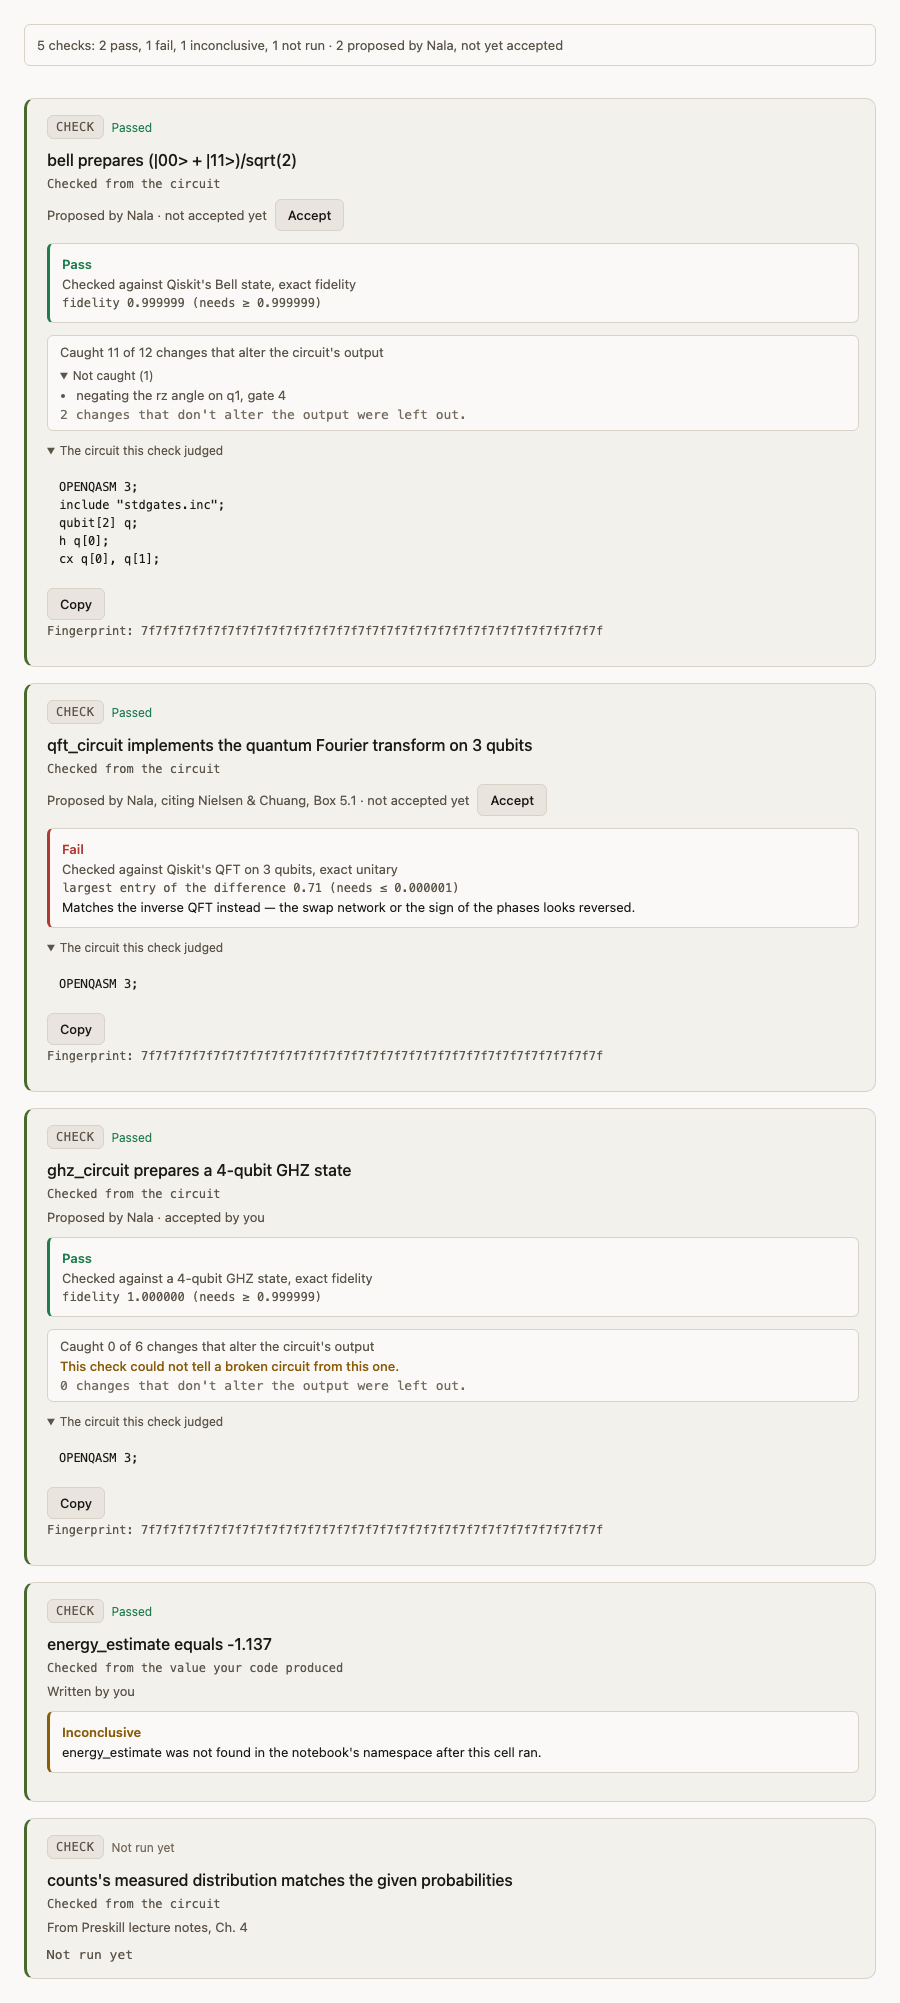
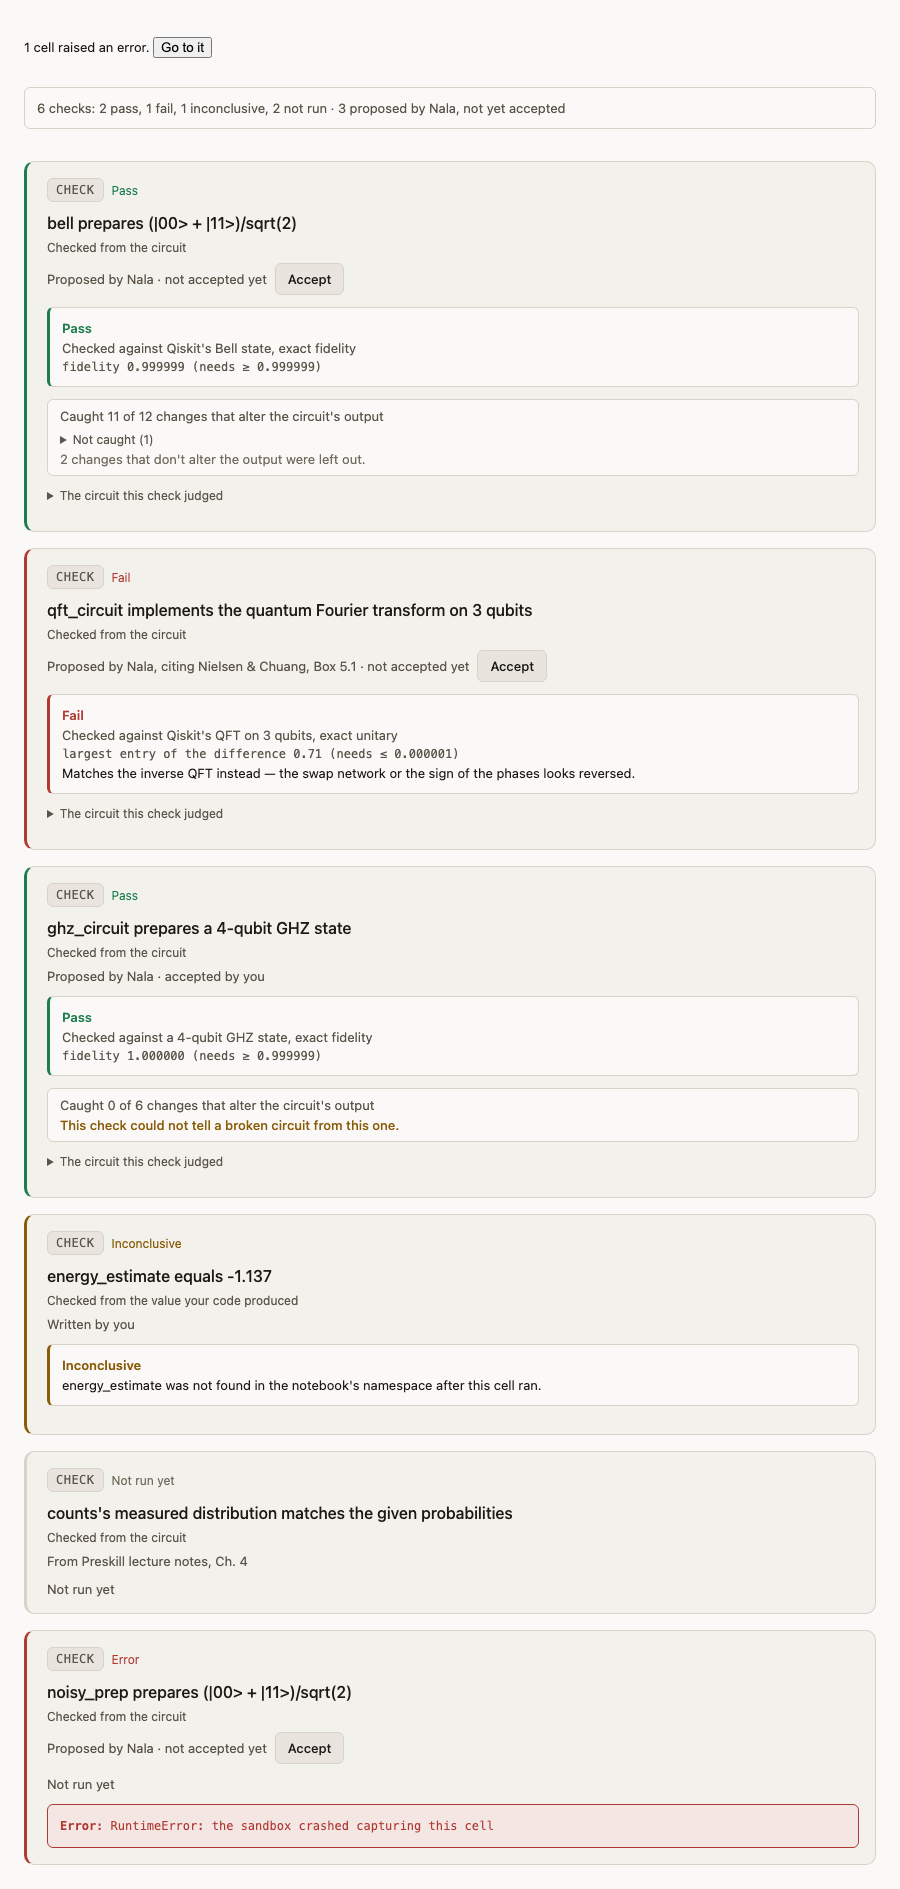
fix: the check card's pill, its fonts, and its disclosures (review pass)
- The cell-head pill showed `cell.status` ("Passed" whenever the worker's capture ran
  cleanly) instead of the verdict — a check that captured fine and then failed still
  read "Passed". `checkCellPillStatus` (notebook-checks.ts) now picks the verdict's own
  status for a check cell, falling back to "not run yet" with no verdict and to "Error"
  only when the capture itself crashed (`cell.status === "error"`), which still has no
  verdict to prefer over it. The card's left border now matches the same status. Colour
  is never the only signal: the pill's own text carries the word every time.
- Monospace was scoped to the measure line, the QASM block and the fingerprint's own
  hash only — the basis label, the teeth lines, "Not run yet" and "Default for this
  kind" were wrongly picking it up from a shared `.mj-mono-muted` utility class and read
  as broken mixed-font prose.
- "N changes that don't alter the output were left out" is now hidden when N is 0.
- The two disclosures were never open by default in the component (neither `<details>`
  carries an `open` prop) — the first round's screenshots opened them with a
  screenshot-only script for visibility. This round's screenshots are closed by
  default, matching the real page, plus one separately-labelled
  `check-cards-en-light-disclosures-open.png` for documentation.

Tests: `checkCellPillStatus` covered directly in `notebook-checks.test.ts` (3 cases:
[…]

Changed region(s): [[0.0, 0.0, 0.6844, 0.9995], [0.3733, 0.0, 0.6222, 0.0625], [0.4044, 0.1874, 0.4356, 0.2186]]

diff --git a/apps/web/tests/forms/notebook-check-cards.test.tsx b/apps/web/tests/forms/notebook-check-cards.test.tsx
@@ -95,13 +95,76 @@ function renderCheck(
   return render(<NotebookView cells={cells} locale="en" framework="qiskit" {...extra} />);
 }
 
+/** The cell-head pill's own text — scoped to that one element, since the verdict chip
+ * inside the card can carry the same word ("Pass"/"Fail"/"Inconclusive"), and a plain
+ * `getByText` would throw on the ambiguity rather than tell them apart. */
+function pillText(view: ReturnType<typeof render>): string {
+  const pill = view.container.querySelector(".mj-notebook-cell-pill");
+  assert.ok(pill, "no cell-head pill on screen");
+  return pill!.textContent ?? "";
+}
+
 // -------------------------------------------------------------------------- verdict states
 
 test("a not-yet-run check says so, and shows no verdict chip", () => {
   const view = renderCheck(baseProperty(), null);
-  assert.ok(view.getByText("Not run yet"));
+  assert.equal(pillText(view), "Not run yet");
+  assert.ok(view.getAllByText("Not run yet").length >= 2); // the pill AND the card body
   assert.equal(view.queryByText("Pass"), null);
   assert.equal(view.queryByText("Fail"), null);
+});
+
+// The bug this guards: the pill is `NotebookCellCard`'s generic head pill, which for
+// every other cell just reflects `cell.status` (ok/error/skipped/not_run). For a check
+// cell, `status: "ok"` only means the worker's capture ran — the verdict can still be a
+// fail, and a pill reading "Passed" over a failing verdict box is actively misleading.
+test("a check cell with status ok and verdict fail renders \"Fail\" in the pill — never \"Passed\"", () => {
+  const view = renderCheck(
+    baseProperty(),
+    { status: "fail", basis: "circuit", checked_against: "a reference", measure: "off by a lot", detail: "wrong phase", qubits: 1, subject_fingerprint: null, subject_qasm: null, teeth: null },
+  );
+  assert.equal(pillText(view), "Fail");
+  assert.equal(view.queryByText("Passed"), null);
+});
+
+test("a check cell with status ok and an inconclusive verdict renders \"Inconclusive\" in the pill — never \"Passed\"", () => {
+  const view = renderCheck(
+    baseProperty(),
+    { status: "inconclusive", basis: "circuit", checked_against: "", measure: "", detail: "could not judge it", qubits: null, subject_fingerprint: null, subject_qasm: null, teeth: null },
+  );
+  assert.equal(pillText(view), "Inconclusive");
+  assert.equal(view.queryByText("Passed"), null);
+});
+
+// The capture itself crashing is a different failure from a judged check that failed —
+// the pill keeps showing Error, not a verdict there is none of.
+test("a check cell whose capture crashed (status error) shows Error, not a verdict word", () => {
+  const cells = notebookCellViews([checkCell("c01", baseProperty())], {
+    notebook_slug: "s",
+    ok: false,
+    runner: "sandbox",
+    duration_ms: 0,
+    environment: {},
+    dropped_bytes: 0,
+    note: "",
+    cells: [
+      {
+        id: "c01",
+        status: "error",
+        stdout: "",
+        stderr: "",
+        outputs: [],
+        error: { ename: "RuntimeError", evalue: "sandbox crashed", traceback: [] },
+        duration_ms: 1,
+        execution_count: 1,
+        note: "",
+        check: null,
+      },
+    ],
+  });
+  const view = render(<NotebookView cells={cells} locale="en" framework="qiskit" />);
+  assert.equal(pillText(view), "Error");
+  assert.equal(view.queryByText("Passed"), null);
 });
 
 test("a passing check with teeth measured shows the chip, the caught line, and the survivor disclosure", () => {
@@ -117,7 +180,8 @@ test("a passing check with teeth measured shows the chip, the caught line, and t
     baseProperty(),
     { status: "pass", basis: "circuit", checked_against: "Qiskit's Bell state, exact fidelity", measure: "fidelity 0.999999 (needs ≥ 0.999999)", detail: "", qubits: 2, subject_fingerprint: FINGERPRINT, subject_qasm: "OPENQASM 3;\nqubit[2] q;\nh q[0];\ncx q[0], q[1];\n", teeth },
   );
-  assert.ok(view.getByText("Pass"));
+  assert.equal(pillText(view), "Pass");
+  assert.ok(view.getAllByText("Pass").length >= 2); // the pill AND the verdict chip
   assert.ok(view.getByText("Checked against Qiskit's Bell state, exact fidelity"));
   assert.match(view.getByText(/fidelity 0.999999/).textContent ?? "", /needs/);
   assert.ok(view.getByText("Caught 11 of 12 changes that alter the circuit's output"));
@@ -166,7 +230,8 @@ test("a failing check shows the diagnosis prominently; teeth are not shown at al
       teeth,
     },
   );
-  assert.ok(view.getByText("Fail"));
+  assert.equal(pillText(view), "Fail");
+  assert.ok(view.getAllByText("Fail").length >= 2); // the pill AND the verdict chip
   assert.ok(view.getByText(/qubit order reversed/));
   // DESIGN.md §1.5: teeth are only ever reported for a check that PASSED this run.
   assert.equal(view.queryByText(/Caught \d+ of/), null);
@@ -188,7 +253,8 @@ test("an inconclusive check shows why, never counted as a fail", () => {
       teeth: null,
     },
   );
-  assert.ok(view.getByText("Inconclusive"));
+  assert.equal(pillText(view), "Inconclusive");
+  assert.ok(view.getAllByText("Inconclusive").length >= 2); // the pill AND the verdict chip
   assert.ok(view.getByText(/mid-circuit measurement/));
   assert.equal(view.queryByText("Fail"), null);
 });

diff --git a/packages/ts/ui/styles.css b/packages/ts/ui/styles.css
@@ -15027,6 +15027,26 @@ html:not([data-auth="in"]) .mj-auth-slot[data-auth-slot="in"] {
   border-left-color: var(--accent);
   border-color: var(--accent);
 }
+/* A check cell's card echoes its own VERDICT in the left border, not the generic
+   accent every other code cell gets — "ok" only means the worker's capture ran, and a
+   card left green over a failing verdict box would repeat the same bug the head pill
+   had. Colour is never the only signal here: the pill right below always carries the
+   matching word ("Pass"/"Fail"/"Inconclusive"/"Not run yet"/"Error"). */
+.mj-notebook-check-cell[data-status="pass"] {
+  border-left-color: var(--ok);
+}
+.mj-notebook-check-cell[data-status="fail"] {
+  border-left-color: var(--err);
+}
+.mj-notebook-check-cell[data-status="inconclusive"] {
+  border-left-color: var(--warn);
+}
+.mj-notebook-check-cell[data-status="not_run"] {
+  border-left-color: var(--border-0);
+}
+.mj-notebook-check-cell[data-status="error"] {
+  border-left-color: var(--err);
+}
 .mj-notebook-cell-edit-actions {
   display: flex;
   flex-wrap: wrap;
@@ -15070,6 +15090,18 @@ html:not([data-auth="in"]) .mj-auth-slot[data-auth-slot="in"] {
 .mj-notebook-cell-pill[data-status="skipped"],
 .mj-notebook-cell-pill[data-status="not_run"] {
   color: var(--text-2);
+}
+/* A check cell's pill (ai-ops 382 fix): the verdict's own status values, reused
+   straight off `CheckVerdict.status` rather than invented pill-only names, so this
+   agrees by construction with `.mj-notebook-check-chip` further down the same card. */
+.mj-notebook-cell-pill[data-status="pass"] {
+  color: var(--ok);
+}
+.mj-notebook-cell-pill[data-status="fail"] {
+  color: var(--err);
+}
+.mj-notebook-cell-pill[data-status="inconclusive"] {
+  color: var(--warn);
 }
 .mj-notebook-cell-actions {
   margin-left: auto;
@@ -15353,6 +15385,7 @@ html:not([data-auth="in"]) .mj-auth-slot[data-auth-slot="in"] {
 }
 .mj-notebook-check-basis {
   margin: 0;
+  color: var(--text-1);
   font-size: var(--fs-12);
 }
 .mj-notebook-check-author {
@@ -15416,13 +15449,19 @@ html:not([data-auth="in"]) .mj-auth-slot[data-auth-slot="in"] {
 }
 .mj-notebook-check-not-run {
   margin: var(--sp-1) 0 0;
+  color: var(--text-1);
   font-size: var(--fs-13);
 }
+/* Also the not-measured teeth paragraph's own shell (`NotebookCheckTeeth` returns just
+   this `<p>` in that branch, no wrapping `<div>`), so it needs the muted colour a plain
+   selector on `<p>` would not reach once the "measured" branch's own `<p>`s (below) have
+   their own rules. */
 .mj-notebook-check-teeth {
   display: grid;
   gap: var(--sp-1);
   margin-top: var(--sp-1);
   padding: var(--sp-2) var(--sp-3);
+  color: var(--text-1);
   border: 1px solid var(--border-0);
   border-radius: var(--radius-control);
   background: var(--bg-0);
@@ -15461,6 +15500,7 @@ html:not([data-auth="in"]) .mj-auth-slot[data-auth-slot="in"] {
 }
 .mj-notebook-check-fingerprint {
   margin: var(--sp-1) 0 0;
+  color: var(--text-1);
   font-size: var(--fs-12);
   word-break: break-all;
 }
@@ -15540,6 +15580,7 @@ html:not([data-auth="in"]) .mj-auth-slot[data-auth-slot="in"] {
   outline-offset: 2px;
 }
 .mj-notebook-add-check-hint {
+  color: var(--text-1);
   font-size: var(--fs-12);
 }
 .mj-notebook-add-check-table {

diff --git a/apps/web/components/notebook-view.tsx b/apps/web/components/notebook-view.tsx
@@ -11,7 +11,7 @@ import { NotebookAddCheckForm } from "./notebook-add-check-form";
 import { cellDomId } from "../lib/notebook-ide";
 import { lintMessage, lintNotebook, type LintFinding } from "../lib/notebook-lint";
 import { NotebookHardwareRequests, type NotebookHardwareContext } from "./notebook-hardware-card";
-import { checkSummaryCounts, type CheckProperty } from "../lib/notebook-checks";
+import { checkCellPillStatus, checkSummaryCounts, type CheckProperty } from "../lib/notebook-checks";
 import type { NotebookCellStatus, NotebookCellView } from "../lib/notebook-view";
 import type { PublicLocale } from "../lib/public-locale";
 import { NOTEBOOK_CHECK_COPY, WORKSPACE_COPY } from "../lib/workspace-locale";
@@ -419,6 +419,24 @@ function NotebookCellCard({
   const showExplainError = cell.error !== null;
   const showCheckAttempt = cell.role !== null && CHECKABLE_ROLES.has(cell.role);
   const isCheckCell = cell.role === "check" && cell.checkProperty !== null;
+  // A check cell's head pill shows the VERDICT (pass/fail/inconclusive/not run yet),
+  // never the generic capture status a plain code cell's pill shows — "ok" only means
+  // the worker's capture function ran, and a check that captured cleanly then judged
+  // its subject a FAIL must never read "Passed" (the bug this fixes). `error` still
+  // wins: that means the sandbox itself crashed before capturing anything. Kept as its
+  // own nullable value (not folded into one ternary with `pillLabel`) so its type stays
+  // `CheckCellPillStatus`, not the union with `NotebookCellStatus` a single combined
+  // ternary would widen it to — TS cannot otherwise prove `checkCopy.statusChip` is
+  // indexed with one of its three keys rather than "ok"/"skipped" too.
+  const checkPillStatus = isCheckCell ? checkCellPillStatus(cell) : null;
+  const pillStatus = checkPillStatus ?? cell.status;
+  const pillLabel = checkPillStatus
+    ? checkPillStatus === "error"
+      ? copy.cellStatus.error
+      : checkPillStatus === "not_run"
+        ? checkCopy.notRunYet
+        : checkCopy.statusChip[checkPillStatus]
+    : copy.cellStatus[cell.status];
 
   function submitAttempt() {
     if (!onCellAction || !attemptText.trim() || locked) return;
@@ -429,14 +447,14 @@ function NotebookCellCard({
   return (
     <article
       id={cellDomId(cell.id)}
-      className="mj-notebook-cell"
+      className={isCheckCell ? "mj-notebook-cell mj-notebook-check-cell" : "mj-notebook-cell"}
       data-kind={cell.kind}
-      data-status={cell.status}
+      data-status={pillStatus}
       tabIndex={0}
     >
       <div className="mj-notebook-cell-head">
         {cell.role ? <span className="mj-notebook-cell-role">{cell.role}</span> : null}
-        <span className="mj-notebook-cell-pill" data-status={cell.status}>{copy.cellStatus[cell.status]}</span>
+        <span className="mj-notebook-cell-pill" data-status={pillStatus}>{pillLabel}</span>
         {onCellAction ? (
           <div className="mj-notebook-cell-actions mj-library-row-actions">
             <button type="button" disabled={busy} onClick={() => onCellAction(cell.id, "explain")}>{copy.actionExplain}</button>

diff --git a/apps/web/components/notebook-check-card.tsx b/apps/web/components/notebook-check-card.tsx
@@ -48,7 +48,7 @@ export function NotebookCheckCard({
   return (
     <div className="mj-notebook-check">
       <p className="mj-notebook-check-statement">{property.statement || cell.source}</p>
-      <p className="mj-notebook-check-basis mj-mono-muted">{copy.basisLabel[basis]}</p>
+      <p className="mj-notebook-check-basis">{copy.basisLabel[basis]}</p>
 
       <div className="mj-notebook-check-author">
         <span className="mj-notebook-check-author-text">
@@ -85,7 +85,7 @@ export function NotebookCheckCard({
           ) : null}
         </div>
       ) : (
-        <p className="mj-notebook-check-not-run mj-mono-muted">{copy.notRunYet}</p>
+        <p className="mj-notebook-check-not-run">{copy.notRunYet}</p>
       )}
 
       {/* Teeth only when the verdict IS a pass — a fail or inconclusive check was never
@@ -98,8 +98,8 @@ export function NotebookCheckCard({
           <summary>{copy.qasmDisclosureLabel}</summary>
           {verdict.subject_qasm ? <NotebookCheckQasm qasm={verdict.subject_qasm} copy={copy} /> : null}
           {verdict.subject_fingerprint ? (
-            <p className="mj-notebook-check-fingerprint mj-mono-muted">
-              {copy.fingerprintLabel}: <code>{verdict.subject_fingerprint}</code>
+            <p className="mj-notebook-check-fingerprint">
+              {copy.fingerprintLabel}: <code className="mj-mono-muted">{verdict.subject_fingerprint}</code>
             </p>
           ) : null}
         </details>
@@ -135,7 +135,7 @@ function NotebookCheckQasm({ qasm, copy }: { qasm: string; copy: NotebookCheckCo
 function NotebookCheckTeeth({ teeth, copy }: { teeth: CheckTeeth; copy: NotebookCheckCopy }) {
   if (teeth.status === "not_measured") {
     return (
-      <p className="mj-notebook-check-teeth mj-mono-muted" title={copy.teethTooltip}>
+      <p className="mj-notebook-check-teeth" title={copy.teethTooltip}>
         {copy.teethNotMeasured(teeth.reason)}
       </p>
     );
@@ -162,7 +162,9 @@ function NotebookCheckTeeth({ teeth, copy }: { teeth: CheckTeeth; copy: Notebook
           </ul>
         </details>
       ) : null}
-      <p className="mj-notebook-check-teeth-equivalent mj-mono-muted">{copy.teethEquivalentLeftOut(teeth.equivalent)}</p>
+      {teeth.equivalent > 0 ? (
+        <p className="mj-notebook-check-teeth-equivalent">{copy.teethEquivalentLeftOut(teeth.equivalent)}</p>
+      ) : null}
     </div>
   );
 }

diff --git a/apps/web/lib/notebook-checks.test.ts b/apps/web/lib/notebook-checks.test.ts
@@ -7,6 +7,7 @@ import {
   buildCheckProperty,
   buildReferenceString,
   checkAuthorBadge,
+  checkCellPillStatus,
   checkCellSource,
   checkExpectationMode,
   checkExpressionError,
@@ -306,6 +307,26 @@ test("checkAuthorBadge classifies the three authors, citation carried through fo
     kind: "source",
     citation: "arXiv:1234.5678",
   });
+});
+
+// -------------------------------------------------------------- the cell-head pill
+
+test("checkCellPillStatus prefers the verdict over the generic capture status", () => {
+  assert.equal(checkCellPillStatus({ status: "ok", checkVerdict: { status: "fail" } as never }), "fail");
+  assert.equal(checkCellPillStatus({ status: "ok", checkVerdict: { status: "inconclusive" } as never }), "inconclusive");
+  assert.equal(checkCellPillStatus({ status: "ok", checkVerdict: { status: "pass" } as never }), "pass");
+});
+
+test("checkCellPillStatus is not_run when the capture ran but no verdict exists yet", () => {
+  assert.equal(checkCellPillStatus({ status: "ok", checkVerdict: null }), "not_run");
+});
+
+test("checkCellPillStatus is error when the capture itself crashed, even with a stale verdict", () => {
+  // A crashed capture never carries a verdict in practice (the join sets checkVerdict
+  // from THIS run's result), but error wins even if one were somehow present — the
+  // sandbox crashing is a different failure from a judged check that failed.
+  assert.equal(checkCellPillStatus({ status: "error", checkVerdict: null }), "error");
+  assert.equal(checkCellPillStatus({ status: "error", checkVerdict: { status: "pass" } as never }), "error");
 });
 
 // -------------------------------------------------------------- notebook-level summary

diff --git a/apps/web/lib/notebook-checks.ts b/apps/web/lib/notebook-checks.ts
@@ -561,6 +561,26 @@ export function checkAuthorBadge(property: Pick<CheckProperty, "author" | "citat
   return { kind: "user" };
 }
 
+// ------------------------------------------------------------------------- the cell-head pill
+
+export type CheckCellPillStatus = "pass" | "fail" | "inconclusive" | "not_run" | "error";
+
+/** What a `role=check` cell's head pill should show: the VERDICT, not the generic
+ * capture status a plain code cell's pill shows. `cell.status === "ok"` only means the
+ * worker's capture function ran — a check that captured cleanly and then judged the
+ * subject as a fail is still "ok" by that measure, and a pill reading "Passed" on a
+ * failing check (DESIGN.md §1.5's own words never say "verified", and this bug says
+ * "Passed" regardless) is actively misleading. `"error"` is the one case the capture
+ * status still wins outright: the sandbox crashed before it ever captured a subject, a
+ * different failure from a judged check that failed, and there is no verdict to prefer
+ * over it (`cell.checkVerdict` is `null` in that case too, same as not-run — this check
+ * runs first so a genuine crash is never silently read as "not run yet"). */
+export function checkCellPillStatus(cell: Pick<NotebookCellView, "status" | "checkVerdict">): CheckCellPillStatus {
+  if (cell.status === "error") return "error";
+  if (!cell.checkVerdict) return "not_run";
+  return cell.checkVerdict.status;
+}
+
 // ------------------------------------------------------------------------- notebook-level summary
 
 export interface CheckSummaryCounts {

diff --git a/apps/web/components/notebook-add-check-form.tsx b/apps/web/components/notebook-add-check-form.tsx
@@ -257,7 +257,7 @@ export function NotebookAddCheckForm({
           WHOLE text content as the accessible name, so a hint sentence inside it would
           fold into "Tolerance Default for this kind: 0.000001" instead of "Tolerance" —
           the exact mistake `getByLabelText("Tolerance")` caught in this form's own test. */}
-      <p className="mj-notebook-add-check-hint mj-mono-muted">
+      <p className="mj-notebook-add-check-hint">
         {copy.toleranceDefaultHint(String(CHECK_DEFAULT_TOLERANCE[draft.kind]))}
       </p>
 
